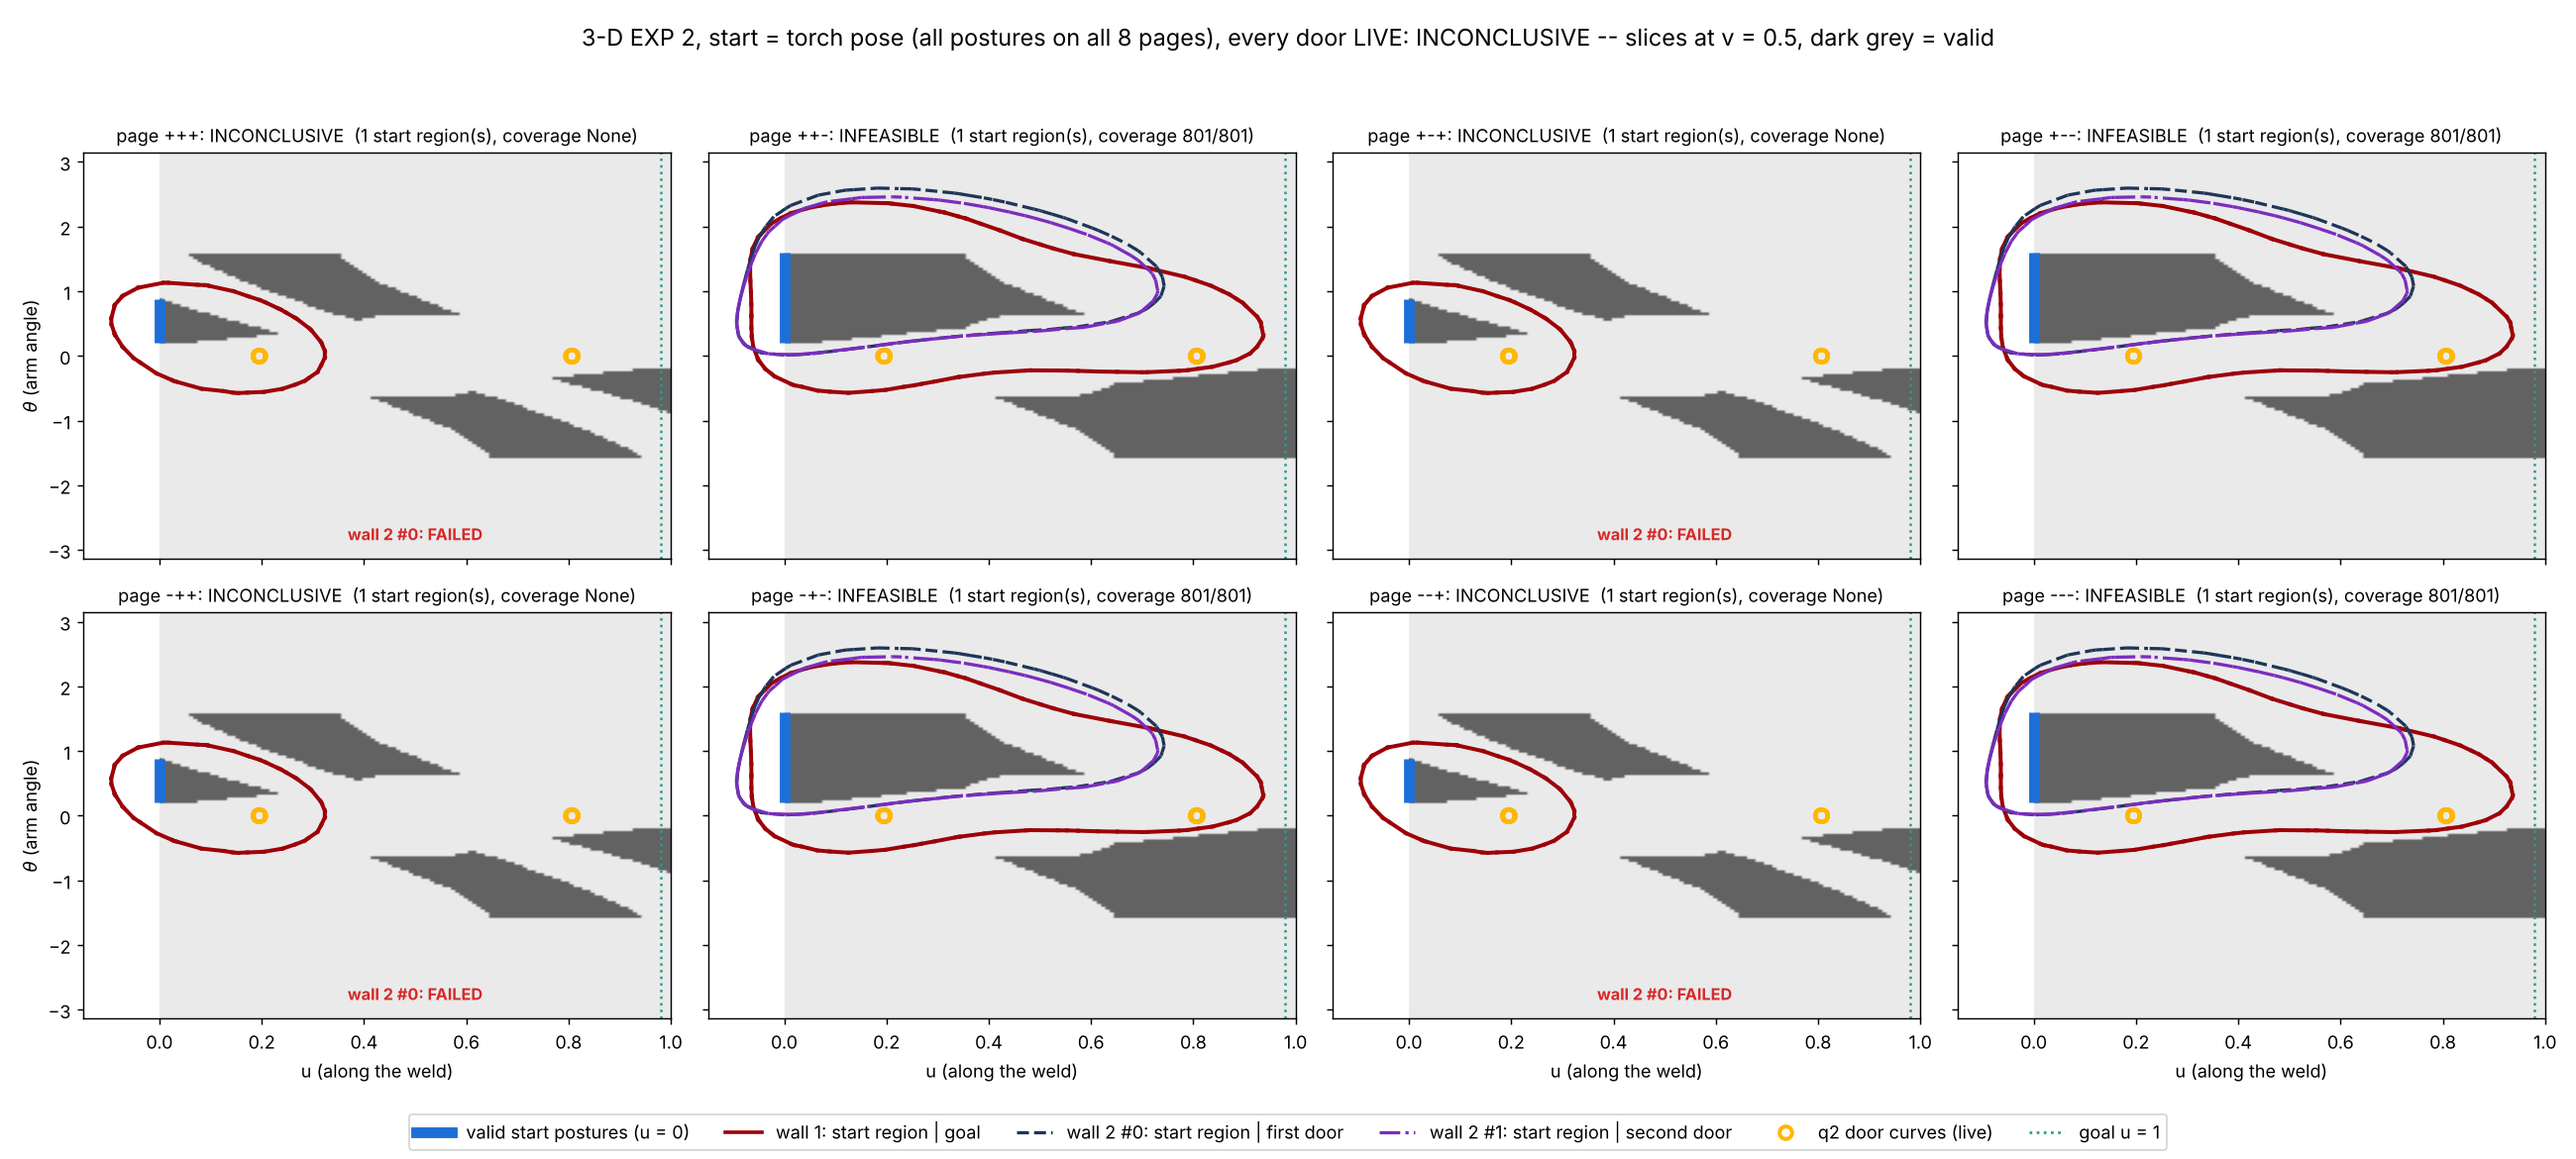
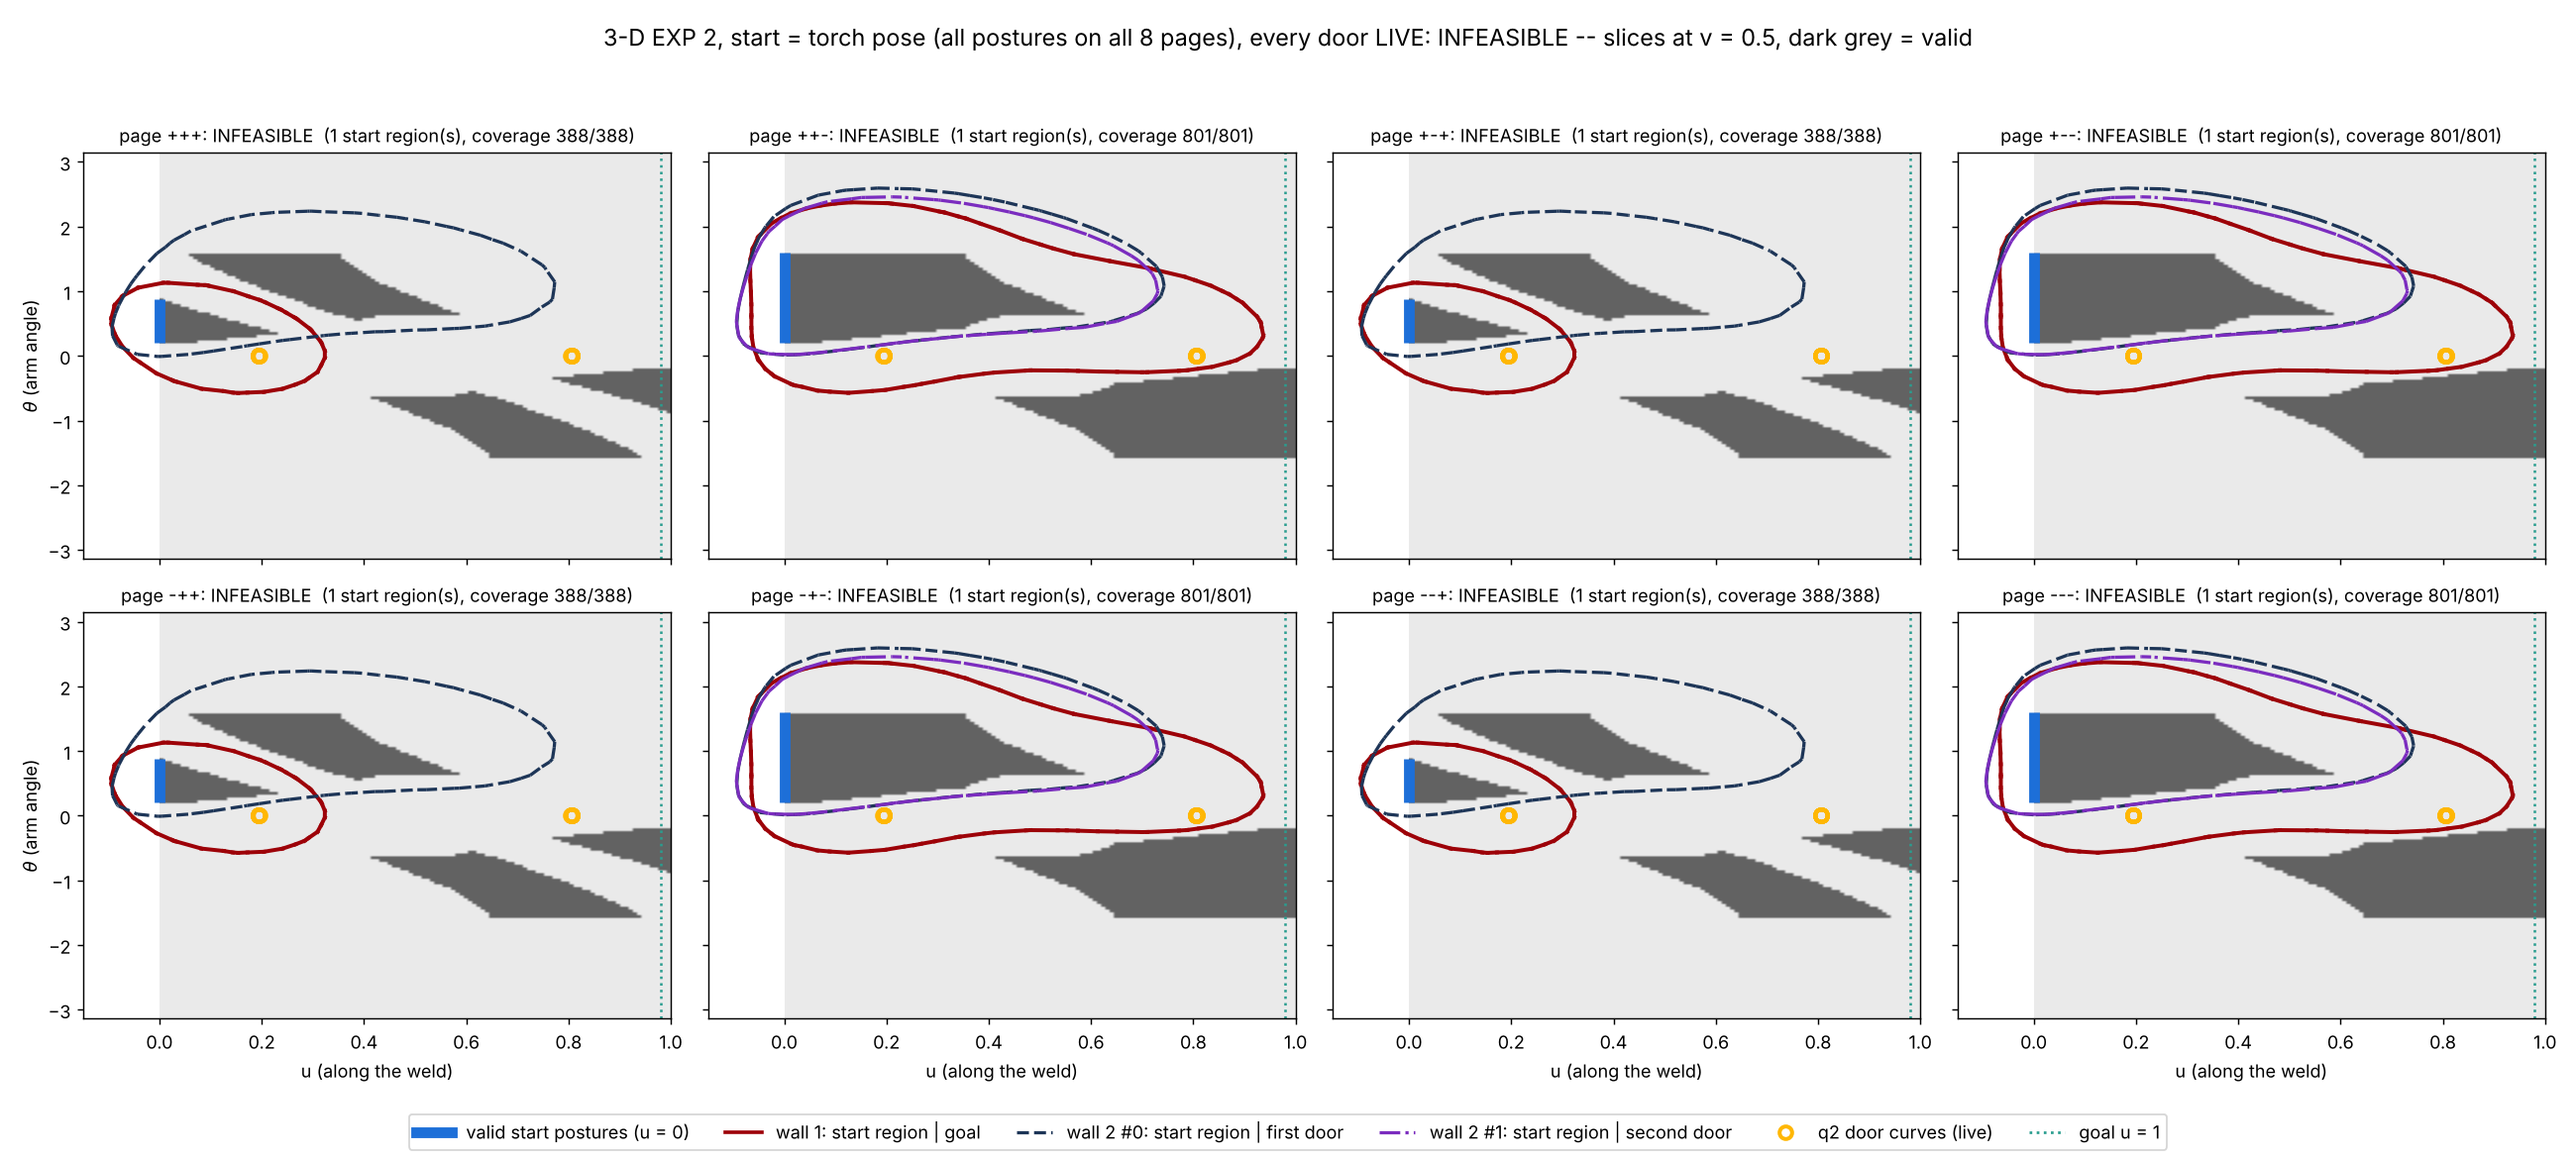
Second wall for the near door on the s6 = + pages: all-live multi-start proof
On pages +++, +-+, -++, --+ the start region is wrapped by a dead
component, and a second wall seeded with the start region alone had to slip
between the two. second_wall3(absorb_dead=True) also encloses components
closer to the region than to the target door; prove3_starts tries without,
then with. The near-door second wall now verifies (1746/1746), so with every
door live 3-D EXP 2 is INFEASIBLE from the torch pose on all eight pages
(238.7 s wall clock). test_page3 and test_second_wall3 pass.

Claude-Session: https://claude.ai/code/session_01G8MAXhHoCFhxSocWosBWNb

diff --git a/src/zzy_rss/page3.py b/src/zzy_rss/page3.py
@@ -937,7 +937,8 @@ class _Box:
 
 
 def second_wall3(cfg: Config, page: Page3, target, others: list,
-                 entries: np.ndarray, verbose: bool = True) -> dict:
+                 entries: np.ndarray, verbose: bool = True,
+                 absorb_dead: bool = False) -> dict:
     """Exit 2 at d = 3: a wall whose only job is to separate the region on
     the page's focus from ONE live door curve (IJRR Definition 1 with
     X = that door; the goal plays no part).
@@ -961,6 +962,23 @@ def second_wall3(cfg: Config, page: Page3, target, others: list,
     saved = page.inside
     page.inside = set()
     try:
+        if absorb_dead:
+            # (findings 48) Components other than the region that are closer
+            # to it than to the target door go on the seed side: a wall 2
+            # slipping between the region and a dead pocket wrapped around it
+            # fails the way wall 1 did on page +++. Enclosing them changes
+            # nothing in the claim (start inside, door outside); one that
+            # actually touches the door just makes the wall fail.
+            reg = cKDTree(page.valid[page.comp == page.start_comp] * page.scale)
+            pieces = clip_to_box(np.asarray(target.tube.polyline, dtype=float),
+                                 page.lo, page.hi)
+            tpts = np.vstack(pieces) if pieces else np.asarray(target.pts)
+            ttree = cKDTree(tpts * page.scale)
+            for c in set(int(c) for c in np.unique(page.comp)) - {page.start_comp}:
+                X = page.valid[page.comp == c] * page.scale
+                if float(reg.query(X)[0].min()) < float(ttree.query(X)[0].min()):
+                    page.inside.add(c)
+            st["dead_absorbed"] = sorted(page.inside)
         region = page.seed_points()
         seed = region
         if len(seed) > p3.n_train_max:
@@ -1348,9 +1366,15 @@ def prove3_starts(cfg: Config, arm: SrsArm, surf: WeldSurface, scene: Scene,
                 out["seconds"] = round(time.time() - t0, 1)
                 return out
             others = [o for o in live if o is not c]
-            w2 = second_wall3(cfg, page, c, others, entries, verbose=verbose)
+            for absorb in (False, True):
+                w2 = second_wall3(cfg, page, c, others, entries, verbose=verbose,
+                                  absorb_dead=absorb)
+                if w2["ok"]:
+                    break
             reg["second_walls"].append(dict(curve=f"q{c.joint}", excluded=w2["ok"],
-                                            reason=w2["reason"], wall=w2["wall"]))
+                                            reason=w2["reason"], wall=w2["wall"],
+                                            absorb_dead=absorb,
+                                            dead_absorbed=w2["stats"].get("dead_absorbed")))
             reg["polys"].append((f"wall 2 q{c.joint}", w2["poly"]))
             if verbose:
                 print(f"[exit2-3d] {name}/{comp} q{c.joint} curve: "

diff --git a/CLAUDE.md b/CLAUDE.md
@@ -37,7 +37,9 @@
 > 每页的起始弧注入路图 ⇒ 起始区域各建墙₁ ⇒ **3601 个稠密起始构型全部在已验证的墙内**(覆盖检查)。
 > **门卸载(已发表设定):八页全部 INFEASIBLE**,801/801 与 388/388 覆盖,墙₁ 2018/2018 与 1958/1958,墙钟 **74.5 s**。
 > 墙₁ 要多试配方(`enclose` / `nearer` / `+near` 并入近的死分量),s6=+ 页要 `enclose+near`。
-> 门全活时 s6=+ 四页的近门墙₂ 建不出(起始区域贴门 ~0.07)⇒ INCONCLUSIVE。图 `docs/figs/exp2_multistart_3d.png`。
+> **门全活也是八页全部 INFEASIBLE**(238.7 s):s6=− 页墙₁ + 两面墙₂;s6=+ 页墙₁(`nearer`)+ 近门墙₂ 1746/1746
+> (墙₂ 也要并入包住起始区域的死分量,`second_wall3(absorb_dead=True)`)。
+> 图 `docs/figs/exp2_multistart_3d.png`(门卸载)、`exp2_multistart_3d_live.png`(门全活,所有墙)。
 
 > ### 🆕🆕🆕🆕 2026-11-09(四):**第二道墙移植到 3 维**(§47)
 >
